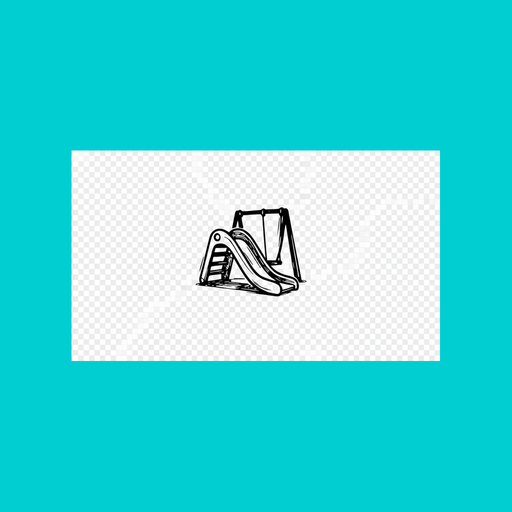
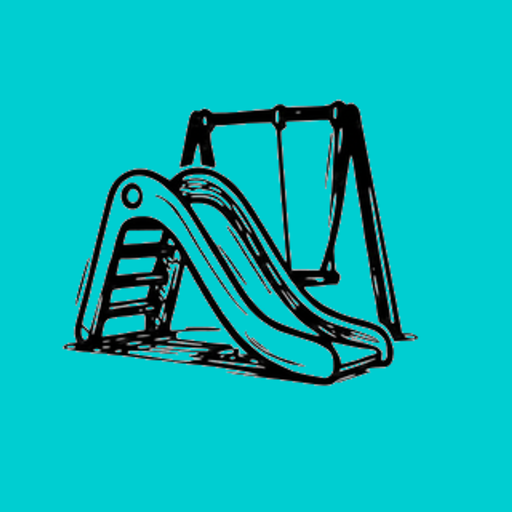
Updating website

diff --git a/server/scripts/syncWebsiteAppIcon.js b/server/scripts/syncWebsiteAppIcon.js
@@ -25,6 +25,7 @@ const LUCHT_PLAY_PLACE_FINDER = path.join(REPO_ROOT, '..', '..', 'lucht-applicat
 /** Single brand plate for fallbacks; aligned with `values/colors.xml` ic_launcher_background (#00CED1). */
 const BG = { r: 0, g: 206, b: 209 }; // #00CED1
 const TRIM_THRESHOLD = 14;
+const BRANDING_FOREGROUND_ZOOM = 3.2;
 
 function hasBranding1024() {
   return fs.existsSync(FG1024) && fs.existsSync(BG1024);
@@ -34,10 +35,19 @@ function hasBranding1024() {
  * Pixels of the in-app / store icon (adaptive layers combined), at `size`×`size`.
  */
 async function buildBrandingAppIconPngBuffer(size) {
+  const cropSide = Math.max(64, Math.round(1024 / BRANDING_FOREGROUND_ZOOM));
+  const left = Math.max(0, Math.round((1024 - cropSide) / 2));
+  const top = Math.max(0, Math.round((1024 - cropSide) / 2));
+  const fgBuf = await sharp(FG1024)
+    .ensureAlpha()
+    .extract({ left, top, width: cropSide, height: cropSide })
+    .resize(1024, 1024, { fit: 'fill' })
+    .png()
+    .toBuffer();
   const body = await sharp(BG1024)
     .ensureAlpha()
     .composite([
-      { input: await sharp(FG1024).ensureAlpha().png().toBuffer(), left: 0, top: 0 },
+      { input: fgBuf, left: 0, top: 0 },
     ])
     .png()
     .toBuffer();

diff --git a/website/app/globals.css b/website/app/globals.css
@@ -116,20 +116,20 @@ a:hover { text-decoration: underline; }
     radial-gradient(ellipse 90% 70% at 50% -20%, rgba(255, 255, 255, 0.14), transparent 50%),
     linear-gradient(165deg, var(--launcher-teal) 0%, #04a5b5 48%, var(--launcher-teal-deep) 100%);
   color: white;
-  padding: 80px 0 60px;
+  padding: 52px 0 44px;
   text-align: center;
 }
 .hero--compact { padding: 52px 0 36px; }
 .hero-brand {
-  margin: 0 auto 32px;
-  max-width: min(540px, 94vw);
+  margin: 0 auto 20px;
+  max-width: min(280px, 72vw);
 }
 .hero-brand-panel {
   background: #6adce8;
-  border-radius: 22px;
-  padding: clamp(22px, 4.5vw, 40px) clamp(20px, 5vw, 48px);
+  border-radius: 16px;
+  padding: clamp(10px, 2vw, 16px);
   box-shadow:
-    0 16px 40px rgba(0, 55, 65, 0.22),
+    0 10px 26px rgba(0, 55, 65, 0.2),
     0 2px 0 rgba(255, 255, 255, 0.22) inset;
   border: 1px solid rgba(255, 255, 255, 0.28);
 }
